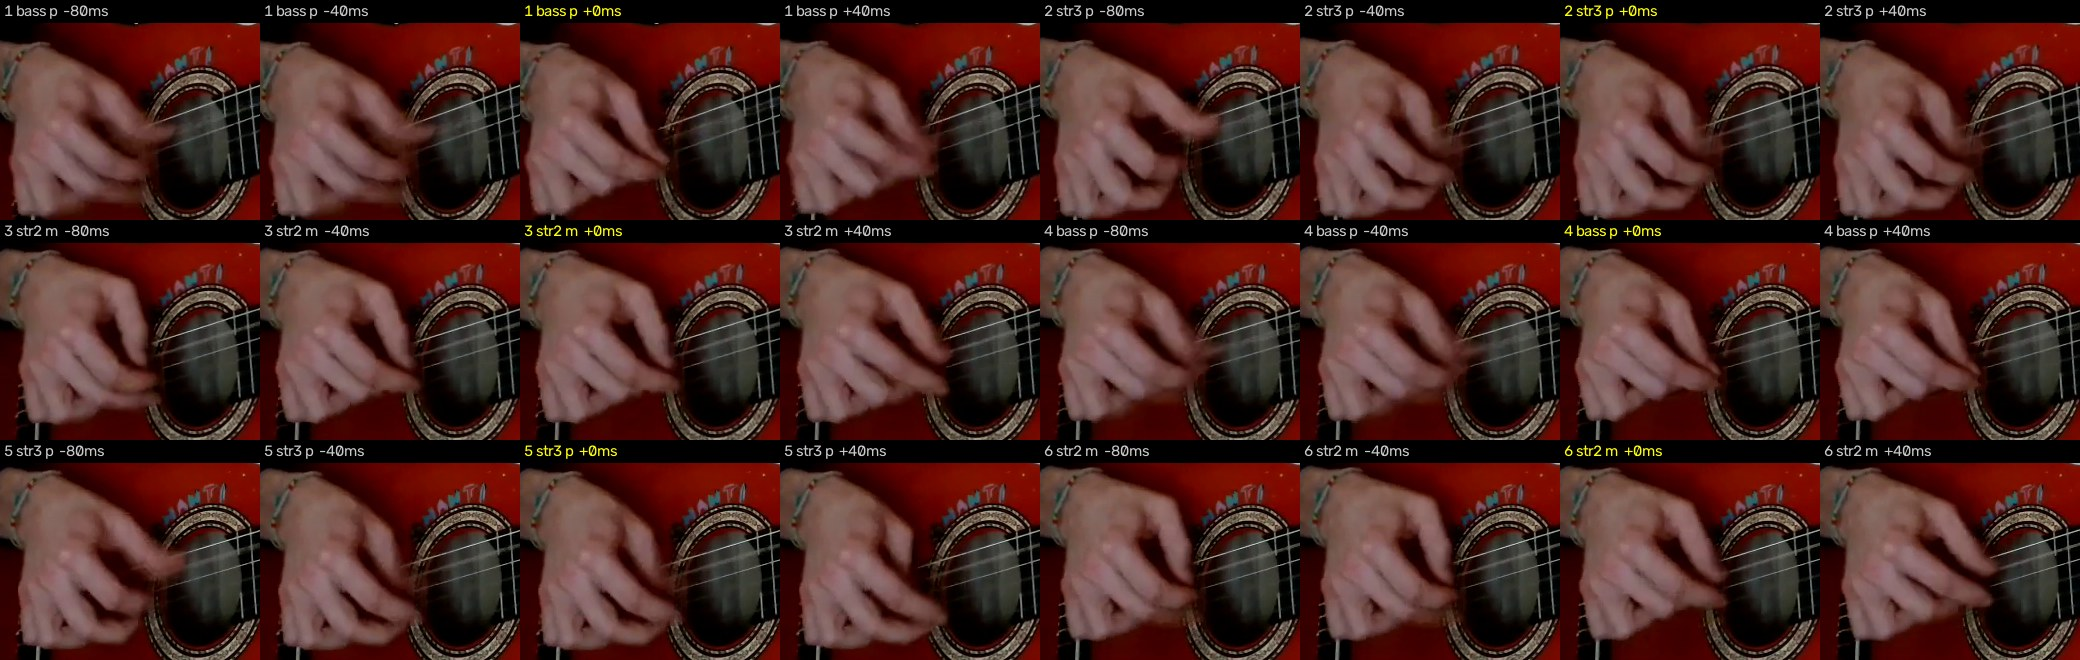
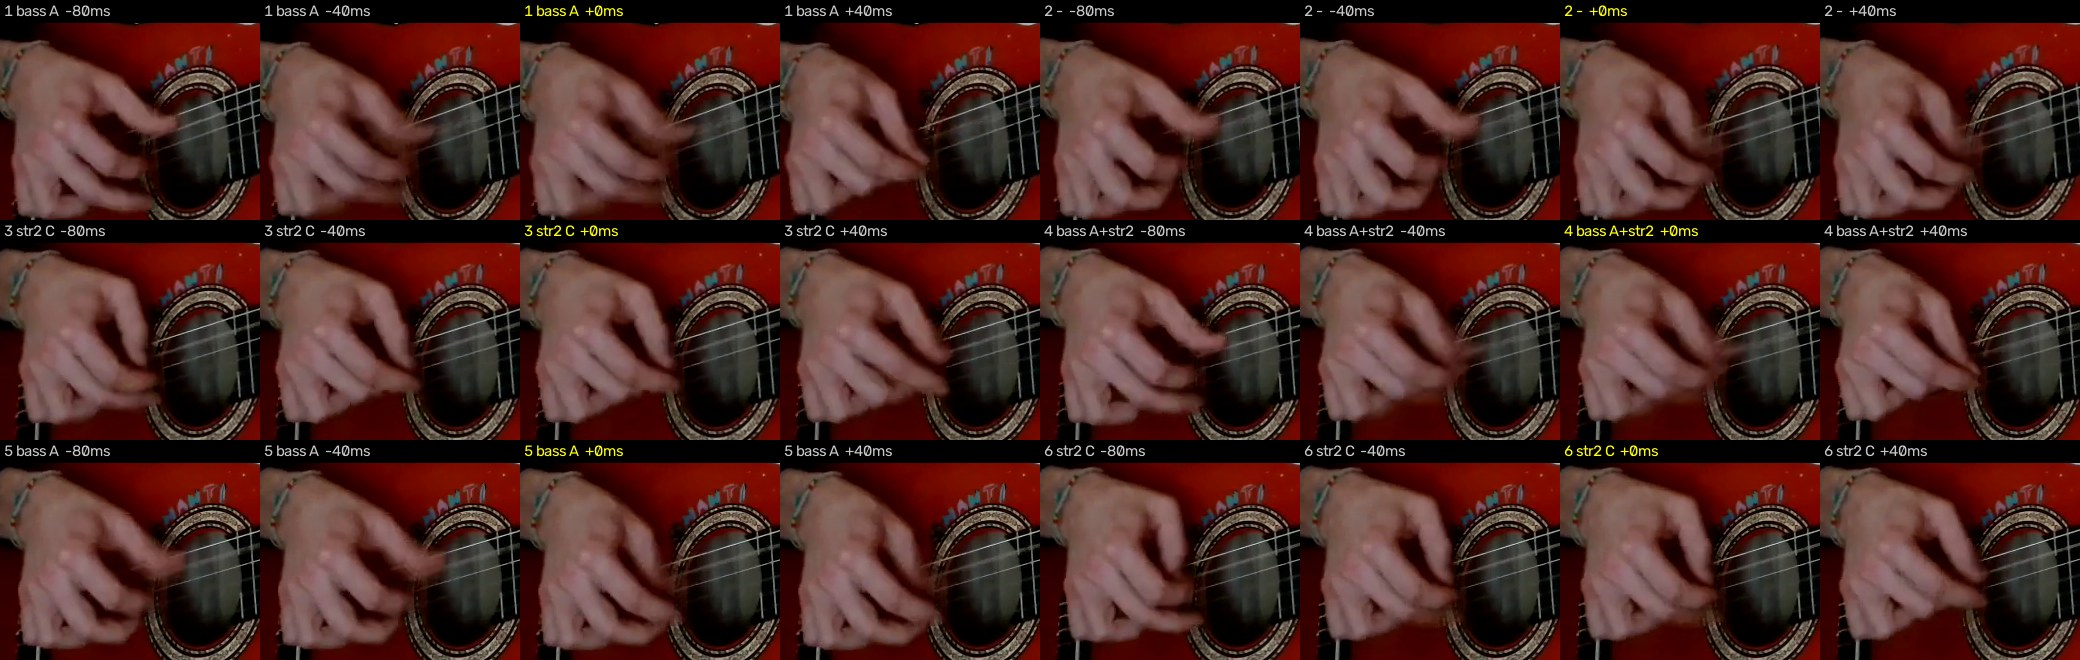
Abuelito Fuego: ноты перебора через Basic Pitch, табы по струнам для Am/G/Dm
Полифоническая транскрипция чистой гитары, привязка нот к струнам по форме
аккорда левой руки, частота на 12 позициях такта. MIDI с нотами в guitar-notes.mid.

Claude-Session: https://claude.ai/code/session_018fVGPNhowijVrQeSVqLn5s

diff --git a/guides/abuelito-fuego/guide.md b/guides/abuelito-fuego/guide.md
@@ -11,7 +11,7 @@
 | Каподастр | **нет** |
 | Аккорды | **Am, G, Dm**. Три открытых аккорда, баррэ нет |
 | Размер | **на шесть**: «раз-два-три, раз-два-три», один аккорд на такт |
-| Правая рука | **перебор**, без боя: бас — средняя струна — 2-я струна, дважды за такт |
+| Правая рука | **перебор**, без боя: бас на «1» и «4», 2-я струна на «3» и «6», 3-я струна на «и» |
 | Темп | ~137 счётов в минуту (такт около 2,6 с) |
 | Форма | `Am Am G Am` ×2 → `Dm Am G Am` ×2 |
 
@@ -47,42 +47,63 @@
 
 ## Перебор
 
-Боя нет, всё играется пальцами по одной струне. Шесть нот на такт, по ноте на каждый счёт. Фигура из трёх нот повторяется дважды:
+Боя нет, всё играется пальцами. Ноты сняты нейросетью Basic Pitch (полифоническая транскрипция) с чистой гитары. Затем каждая нота привязана к струне по форме аккорда, которую держит левая рука, и посчитано, как часто она звучит на этом месте такта. Всего 449 нот, около 12 на такт: по ноте на каждый счёт и на каждое «и».
 
-- **1 и 4** — бас большим пальцем (p). Самые громкие ноты в такте.
-- **2 и 5** — средняя струна, тихо. На кадрах здесь тоже работает большой палец.
-- **3 и 6** — 2-я струна, указательным или средним (i/m). Вторые по громкости.
+Фигура одна для всех аккордов:
 
-На слух: **БУМ — та — ТИН, БУМ — та — ТИН**.
+- **«1» и «4»** — бас большим пальцем на корне аккорда.
+- **«3» и «6»** — 2-я струна.
+- **«и» после 2, 3, 4, 5** — 3-я струна, тихо, заполняет промежутки.
+- **«2»** — пусто, звучит то, что уже взято.
 
-Табы на один такт для каждого аккорда (цифра — лад, сверху вниз от 1-й струны к 6-й):
+На слух: **БУМ — . ти ТИН ти БУМ ти . ти ТИН —**.
+
+Табы на один такт. В таб попала нота, если она звучит хотя бы в 60% тактов с этим аккордом. Для Dm тактов всего два, поэтому там ноты, которые звучат в обоих.
 
 ```
-   Am                 G                  Dm
-   1 2 3 4 5 6        1 2 3 4 5 6        1 2 3 4 5 6
-e|-------------|   e|-------------|   e|-------1---1-|
-B|-----1-----1-|   B|-----0-----0-|   B|-----3-------|
-G|---2-----2---|   G|---0-----0---|   G|---2-----2---|
-D|-------------|   D|-------------|   D|-0-----0-----|
-A|-0-----0-----|   A|-------------|   A|-------------|
-E|-------------|   E|-3-----3-----|   E|-------------|
+Am  (10 тактов)
+   1 и 2 и 3 и 4 и 5 и 6 и
+e|-------------------------|
+B|---------1---1-------1---|
+G|-------2-2-2---2---2-2---|
+D|-------------------------|
+A|-0-----------0---0-------|
+E|-------------------------|
+
+G  (4 такта)
+   1 и 2 и 3 и 4 и 5 и 6 и
+e|-------------0-----------|
+B|-0-------0-----------0---|
+G|---0---0-0-0-0-0---0-0-0-|
+D|-------------------------|
+A|-------------------------|
+E|-3-----------------------|
+
+Dm  (2 такта)
+   1 и 2 и 3 и 4 и 5 и 6 и
+e|-------------1-------1---|
+B|-3-------3---3-----3-3---|
+G|-2-2---2-2-----2-2-------|
+D|-0-------0---0-------0---|
+A|-------------------------|
+E|-------------------------|
 ```
 
-Бас всегда на корне аккорда: в Am 5-я струна открытая, в G 6-я на 3-м ладу, в Dm 4-я открытая. В Dm вторая половина такта уходит на 1-ю струну: на «4» бас и 1-я струна звучат вместе, на «6» снова 1-я.
+Что отличает аккорды:
+- **Am**: на «4» вместе с басом звучит 2-я струна, на «5» бас ещё раз.
+- **G**: на «1» бас вместе с 2-й струной. На «4» вместо баса — открытая 1-я струна, поэтому в G на 1-й струне ми, а не соль на 3-м ладу. 3-я струна звучит на каждом «и», самая плотная фигура.
+- **Dm**: почти на каждом счёте вместе звучат 4-я, 3-я и 2-я струны (щипок), на «4» и «6» сверху добавляется 1-я.
 
-Вариации, которые он играет местами, сверх базовой фигуры:
-- на «1» или «4» вместе с басом иногда звучит верхняя струна (щипок): в G — 2-я, в Am — 1-я;
-- между счётами иногда проскакивает тихая нота на 3-й струне;
-- на «2» и «5» вместо 3-й струны иногда звучит 4-я или 2-я.
-
-Начинайте с базовой фигуры из табов, вариации придут сами.
+Переходы. В конце такта перед G (на «6-и») уже звучат бас соль и открытая 2-я струна: пальцы переставляются заранее. В конце тактов Dm на «6-и» звучат открытые 3-я и 2-я струны: пальцы снимаются с Dm перед Am.
 
 Как разучить:
-1. Am, медленно, считая вслух «раз-два-три»: бас — 3-я — 2-я. Метроном 80.
-2. Следите за громкостью: бас громко, 3-я струна тихо, 2-я средне.
-3. Am → G: большой палец переходит с 5-й струны на 6-ю, 3-я и 2-я струны в G открытые.
-4. Dm → Am — самая трудная смена: указательный переезжает с 1-й струны на 2-ю, бас с 4-й на 5-ю.
-5. Вся форма, поднимайте темп до 137.
+1. Am, медленно, считая «раз-и-два-и-три-и»: бас на «раз», 3-я на «два-и», 2-я на «три». Метроном 60.
+2. Вторая половина такта так же: бас на «четыре», 3-я на «и», 2-я на «шесть».
+3. Добавьте тихую 3-ю струну на остальные «и».
+4. G и Dm по табам, затем смены Am → G → Am и Dm → Am.
+5. Поднимайте темп до 137 счётов в минуту.
+
+Все распознанные ноты лежат в [guitar-notes.mid](guitar-notes.mid). Его можно открыть в MuseScore или Guitar Pro и посмотреть каждую ноту.
 
 ## Текст с аккордами
 
@@ -123,21 +144,22 @@ E|-------------|   E|-3-----3-----|   E|-------------|
 | Каподастр | кадры + звук | на кадрах виден верхний порожек, каподастра нет. По звуку все аккорды в открытых формах без него |
 | Аккорды | спектр чистой гитары (Demucs) по каждой восьмой | Am: A2 E3 A3 C4 E4. G: G2 B2 D3 G3 B3 G4. Третий аккорд: D3 A3 D4 F4, фа-диеза нет, то есть **Dm**, а не D |
 | Размер | счёт вслух в начале, ритм по звуку, движение руки | он сам считает «uno, dos, tres». Звук повторяется через 3 восьмые сильнее всего, рука повторяет движение каждые 1,32 с (3 восьмые). Аккорды меняются ровно раз в 6 восьмых |
-| Перебор | начала нот по каждой струне отдельно (спектр чистой гитары), сложенные по позиции в такте | ~11 нот на такт, из них 6 на счётах. На «1» и «4» начинается бас (A2/G2/D3). На «3» — 2-я струна: C4 в Am, B3 в G, D4 в Dm. На «6» — 2-я, в Dm 1-я (F4). «2» и «5» тише в 2–3 раза |
+| Перебор | Basic Pitch (нейросеть Spotify для полифонической транскрипции) по чистой гитаре → привязка нот к струнам по форме аккорда → частота на 12 позициях такта | см. табы выше. Нота ля на 3-й струне в Dm не может быть обертоном баса ре, и она звучит на каждом «и» в обоих тактах, так что заполнение 3-й струной реальное, а не артефакт |
 | Пальцы | кадры правой руки на каждом счёте | на «1», «2», «4», «5» смазан большой палец у басовых струн, на «3» и «6» он стоит, а движутся пальцы у тонких струн |
 
 Что осталось неточным:
-- Какая струна звучит на «2» и «5», по звуку видно хуже всего: эти ноты тихие и от такта к такту разные. Чаще всего это 3-я струна, она и стоит в табах.
+- В Am и G 3-я струна на «1» не попала в таб: это октава баса (ля над ля, соль над соль), и по звуку её не отличить от обертона. Возможно, она там тоже играется.
+- Dm звучит всего два такта, его фигура посчитана по меньшей статистике, чем Am (10 тактов) и G (4).
 - В G на 1-й струне иногда звучит открытая ми вместо соль. Возможно, мизинец или безымянный не всегда дожимает. Начните с `320003`.
 - В самом конце (0:52) коротко проскакивает E. Это проходящий аккорд перед финальным Am, учить его не обязательно.
 
 ## Покадровая сверка
 
-**Правая рука, такт 0:18,9–0:21,5 (Am).** На каждый счёт по четыре кадра: 80 и 40 мс до ноты, сама нота, 40 мс после. Подпись: счёт, струна, палец (p — большой, m — средний).
+**Правая рука, такт 0:18,9–0:21,5 (Am).** На каждый счёт по четыре кадра: 80 и 40 мс до ноты, сама нота, 40 мс после.
 
 ![правая рука](frames/picking-bar.jpg)
 
-На «1», «2», «4», «5» смазан большой палец у басовых струн, на «3» и «6» движутся пальцы у тонких.
+На «1» и «4» смазан большой палец у басовых струн, на «3» и «6» движутся пальцы у тонких. Мелкие ноты на 3-й струне на кадрах не различить: при 25 кадрах в секунду они пролетают между кадрами.
 
 **Левая рука, три аккорда** (верхний ряд — часть А, нижний — часть Б). Подпись — аккорд по звуку.
 
